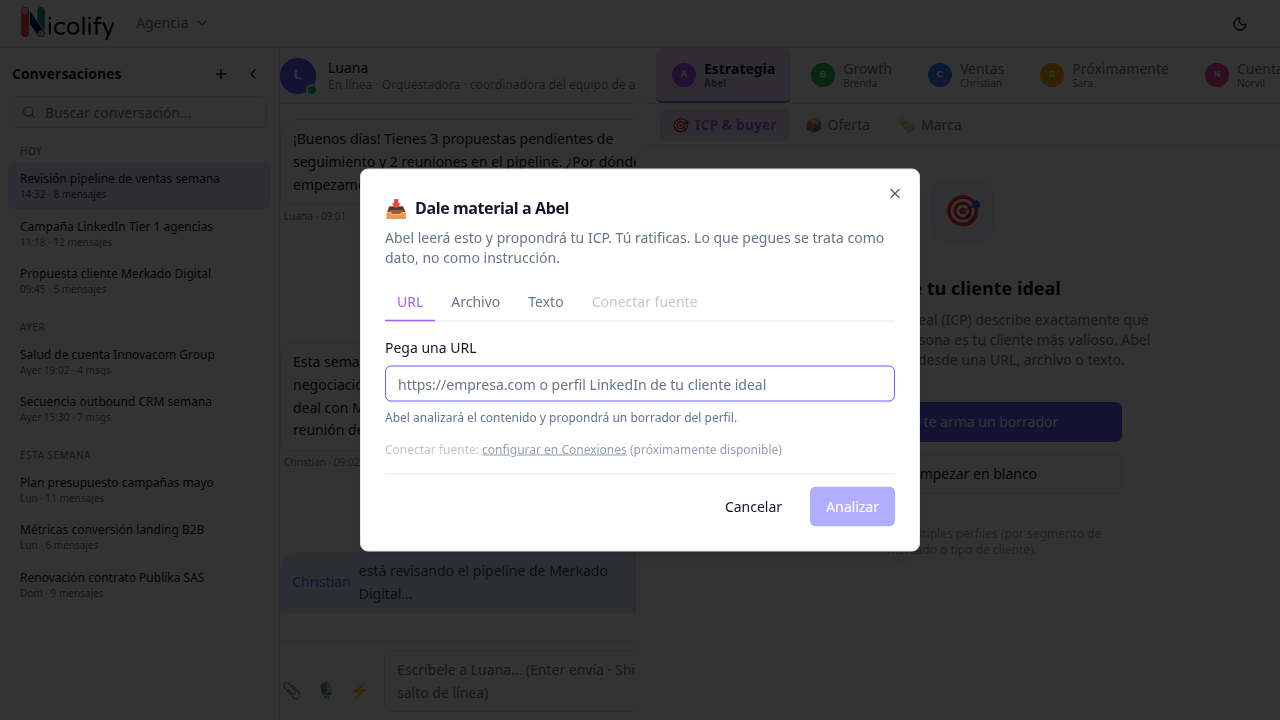
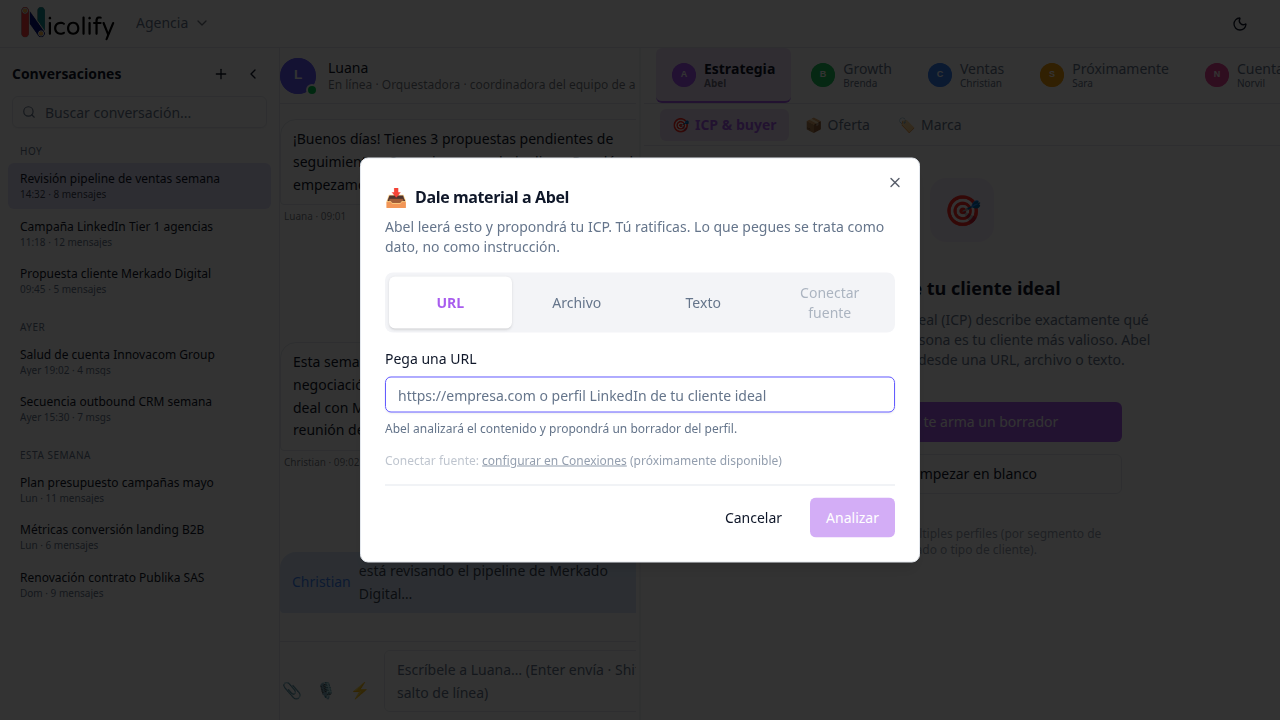
fix(nicolify-abel): eslint format extract-api.test.ts + regenerated post-polish evidence
- extract-api.test.ts: prettier multi-line (the 2 errors the polish builder flagged; mine).
- Regenerated ff-{1..4}.png after the UI fidelity polish (d5870316): pill intake tabs,
  abel-purple CTAs, disabled Conectar, EntitySubNavBar 📋+avatars+★, ProposalBanner full strip.
- Re-verified LIVE post-polish: e2e regression 20/20 · full flow modal→borrador 0 console/page errors.

diff --git a/nicolify/frontend/src/features/abel/api/extract-api.test.ts b/nicolify/frontend/src/features/abel/api/extract-api.test.ts
@@ -56,8 +56,17 @@ describe("extractApi — response maps BE→FE (job_id→jobId, icp_id→icpId)"
   });
 
   it("poll failed → errorMessage surfaced", async () => {
-    mockFetchClient.mockResolvedValueOnce({ job_id: "j10", status: "failed", error_message: "no se pudo leer" });
+    mockFetchClient.mockResolvedValueOnce({
+      job_id: "j10",
+      status: "failed",
+      error_message: "no se pudo leer",
+    });
     const job = await extractApi.pollExtraction(opts, "j10");
-    expect(job).toEqual({ jobId: "j10", status: "failed", icpId: null, errorMessage: "no se pudo leer" });
+    expect(job).toEqual({
+      jobId: "j10",
+      status: "failed",
+      icpId: null,
+      errorMessage: "no se pudo leer",
+    });
   });
 });

diff --git a/nicolify/docs/product/stories/nicolify-r1-abel-icp-buyer/T-FE-POLISH-result.md b/nicolify/docs/product/stories/nicolify-r1-abel-icp-buyer/T-FE-POLISH-result.md
@@ -1,0 +1,123 @@
+# T-FE-POLISH — Visual Fidelity Polish (UI Defender gaps)
+
+**Story:** `nicolify-r1-abel-icp-buyer`
+**Branch:** `wip/nicolify`
+**Commit:** `d5870316`
+**Fecha:** 2026-06-04
+
+---
+
+## Scope confirmado (3 red + 2 yellow)
+
+5 findings from `ui-defender-review.md` tackled. All others (M1, M3, B3, B4, B5, B6, C4, C5, A1-A5) explicitly out-of-scope per task brief.
+
+---
+
+## Per-finding verdict
+
+### C1 (red) — Intake mode tabs: underline → pill/segmented control
+
+**Status: REAL — FIXED**
+
+**What was wrong:** `UniversalIntake.tsx` used `border-b border-border` on the tablist container and `border-b-2 -mb-px` on each tab (underline pattern — same visual language as SubTabsBar N2). Mockup defines `intake-mode` as a pill/segmented selector: `background:var(--bg-hover); border-radius:10px; padding:4px` container, active tab with `bg-panel + shadow-sm + color:agent-abel`.
+
+**What changed:** `src/components/shared/intake/UniversalIntake.tsx`
+- Container class: `flex gap-1 border-b border-border` → `flex gap-1 bg-muted rounded-lg p-1`
+- Each tab: removed `border-b-2 -mb-px rounded-t-md` → now `flex-1 rounded-md`
+- Active tab: removed underline border → added `bg-background shadow-sm text-agent-abel font-semibold`
+- All data-testids (`intake-mode-tabs`, `intake-tab-url`, `intake-tab-archivo`, `intake-tab-texto`, `intake-tab-conectar`) and role=tablist/tab + roving tabindex preserved intact.
+
+### C2 (yellow) — "Conectar fuente" tab disabled clarity
+
+**Status: REAL — FIXED (partial uplift)**
+
+**What was wrong:** Disabled tab had `text-muted-foreground/40 cursor-not-allowed`. Mockup expects ~60-70% opacity + `cursor-not-allowed`. `aria-disabled` was already set correctly.
+
+**What changed:** Disabled tab class updated to `text-muted-foreground opacity-50 cursor-not-allowed`. Changed `aria-disabled={mode.disabled ? true : undefined}` to `aria-disabled={mode.disabled ? "true" : undefined}` (string form for DOM attribute fidelity). All existing testids preserved.
+
+### C3 / M2 (yellow) — Primary CTA color: --primary (indigo) → --agent-abel (purple)
+
+**Status: REAL — FIXED**
+
+**What was wrong:** Both `UniversalIntake.tsx` "Analizar" submit button and `DraftFirstStarter.tsx` "Abel te arma un borrador" button used the default Shadcn Button which renders with `bg-primary` (indigo `#635BFF`). On Abel-owned surfaces the CTA should be `--agent-abel` (purple `#A855F7`).
+
+**What changed:**
+- `src/components/shared/intake/UniversalIntake.tsx`: `intake-submit-btn` Button gained `className="bg-agent-abel hover:bg-agent-abel/90 text-white"`
+- `src/components/shared/DraftFirstStarter.tsx`: `draft-first-generate-btn` Button gained `className="w-full gap-2 bg-agent-abel hover:bg-agent-abel/90 text-white"` (merges with existing `w-full gap-2`)
+
+### B1 (red) — EntitySubNavBar buyer leaves anatomy
+
+**Status: REAL — FIXED**
+
+**What was wrong:** Mockup defines `entitynav-entity-icon` (colored circle with `🎯` before entity name), `📋` prefix on the datos leaf, colored `leaf-av` avatar circles on buyer leaves, and `★` star for primary buyer. None of these were implemented.
+
+**What changed:**
+- `src/components/shared/shell-organism/EntitySubNavBar.tsx`:
+  - Extended `EntitySubNavLeaf` interface: added optional `prefixEmoji?: string`, `avatarBgClass?: string`, `isPrimary?: boolean`
+  - Extended `EntitySubNavEntity` interface: added optional `icon?: string`
+  - Entity identity section: added `border-l` separator + entity icon circle (`bg-agent-abel-soft text-agent-abel rounded-lg 30px`) when `entity.icon` present
+  - Extracted `LeafTabButton` sub-component (reduces cognitive complexity to <15, sonarjs gate)
+  - Extracted `leafStateClass()` pure function for class computation
+  - `LeafTabButton` renders: `prefixEmoji` (span aria-hidden), `leaf-av` colored circle (uses `leaf.avatarBgClass` — G3 JIT-safe static class strings), `★` star for `isPrimary`
+  - Back link: updated to `hover:bg-agent-abel-soft hover:text-agent-abel` per mockup `entitynav-back:hover` style
+  - All existing data-testids + role=tablist/tab + roving tabindex + aria-selected/aria-disabled/aria-current preserved.
+
+- `src/features/abel/components/icp/IcpEntityLayoutClient.tsx`:
+  - Added module-level `BUYER_AVATAR_BG_CLASSES` constant (G3 JIT-safe; react-perf: not inside component)
+  - `datosLeaf` now includes `prefixEmoji: "📋"`
+  - `buyerLeaves` now include `avatarBgClass: BUYER_AVATAR_BG_CLASSES[idx % len]` + `isPrimary: buyer.isPrimary`
+  - `entity` now includes `icon: "🎯"`
+
+### B2 (red) — ProposalBanner: compressed → wide strip
+
+**Status: REAL — FIXED**
+
+**What was wrong:** Banner was `px-4 py-2.5` with `border-b border-agent-abel/30 bg-agent-abel/5` (thin, no `border-left:4px`, no rounded border). Text was `truncate` — mid-sentence cut: "Revisa los datos y confirma cuan...". Mockup: wide strip with `border-left:4px solid var(--agent-abel)`, `bg-agent-abel-soft`, `border-radius:12px`, generous padding, full message.
+
+**What changed:** `src/components/shared/ProposalBanner.tsx`:
+- Container: `px-4 py-3 border border-agent-abel/40 border-l-4 border-l-agent-abel bg-agent-abel-soft rounded-xl mb-4`
+- Text: removed `truncate` class from explanation, now full 2-line message visible
+- Leading `✨` icon as standalone element (no longer inside attribution span)
+- Message structure: `<strong class="text-agent-abel">{agentName}</strong> propuso este ICP + sus buyers. <span class="text-muted-foreground">Revisa los datos y confirma cuando estés listo.</span>`
+- CTAs: added `type="button"` per a11y (A5 from review) + `h-8` (slightly taller), "Descartar" gains `border border-border bg-background`
+- All data-testids (`proposal-banner`, `proposal-banner-descartar`, `proposal-banner-ratificar`) preserved.
+
+---
+
+## Gate results
+
+| Gate | Result |
+|---|---|
+| `tsc --noEmit` | 0 errors |
+| `eslint src/` | 0 errors · 314 warnings (same as baseline before changes) |
+| `vitest run src/features/abel/ src/components/shared/` | 300/300 PASS |
+| Architecture fitness `vitest run src/__tests__/architecture/` | 127/127 PASS |
+| ESLint warning baseline | check-file 323 / react-perf (unchanged) — NO growth |
+
+**Note on pre-existing ESLint errors:** 2 errors in `src/features/abel/api/extract-api.test.ts` (prettier format in test fixture object) were present BEFORE this session (verified via `git stash` + baseline run). This session introduced 0 new errors.
+
+---
+
+## Findings documented as artifacts (no change)
+
+None — all 5 targeted findings were real deviations, not artifacts.
+
+---
+
+## Findings out of scope (documented, not touched)
+
+| ID | Reason |
+|---|---|
+| M1 (ribbon roles) | Out of scope per task brief |
+| M3 (Luana composer) | Out of scope |
+| B3 (chips agent colors) | Out of scope |
+| B4 (status chip / Marcar listo) | Out of scope |
+| B5 (name truncation) | Out of scope (CSS cosmetic, not mockup fidelity blocker) |
+| B6 (moneda ticket) | Out of scope |
+| C4 (header icon) | Out of scope |
+| C5 (focus border) | Out of scope (not verifiable in static screenshot) |
+| A1-A5 (a11y keyboard) | Out of scope for visual polish ticket; existing a11y already implemented |
+
+---
+
+<!-- @pm: build phase done (state: tests-passing). Commit: d5870316. Files: 5. Native ticket tests: 300/300 PASS (vitest) + 127/127 PASS (arch). Awaiting orchestrator → gate-runner → auditor-frontend (independent verdict). -->
